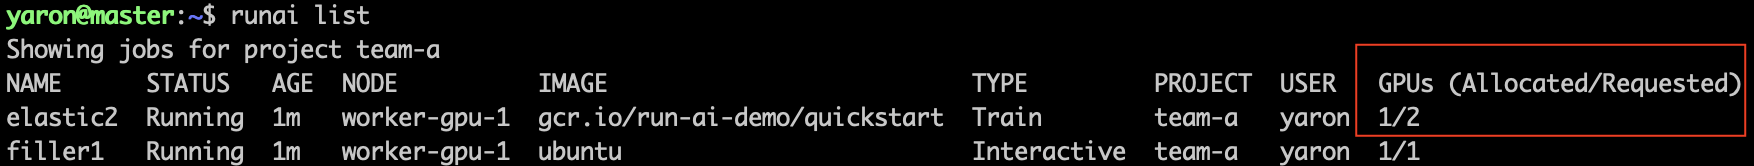
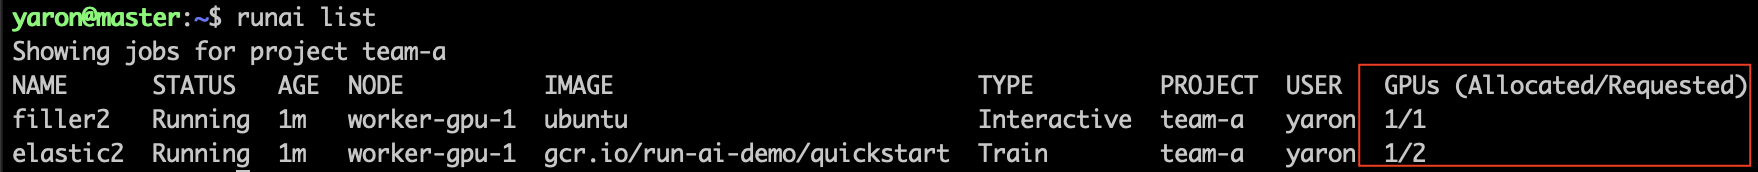
elastic

diff --git a/docs/Researcher/Walkthroughs/walkthrough-elasticity.md b/docs/Researcher/Walkthroughs/walkthrough-elasticity.md
@@ -36,9 +36,10 @@ To complete this walk-through you must have:
 ### Expansion 
 
 *   At the command-line run:
-
-<pre><code>runai project set team-a
-runai submit elastic1 -i gcr.io/run-ai-demo/quickstart -g 1 <b>--elastic</b></code></pre>
+```
+runai project set team-a
+runai submit elastic1 -i gcr.io/run-ai-demo/quickstart -g 1 --elastic
+```
 
 * This would start an unattended training job for team-a. 
 * The job is based on a sample docker image ``gcr.io/run-ai-demo/quickstart``. We named the job ``elastic1``and have allocated 2 GPUs for the job
@@ -56,16 +57,31 @@ The result:
     * The Job has requested 1 GPU, but has been allocated with 2, as 2 are available right now.
     * The code needs to be ready to accept more GPUs than it requested, otherwise, the GPUs will not be utilized. The Run:AI Elasticity library helps with expanding the job effectively.
 
-Finally, delete the job:
+Add a filler class:
 
-    runai delete elastic1
+```
+runai submit filler1 -i ubuntu --command sleep --args infinity -g 1 --interactive
+runai list
+```
+
+The result: 
+
+![elasticity4.png](img/elasticity4.png)
+
+!!! Discussion
+    An interactive job (filler1) needs to be scheduled. The elastic job is now reduced to the originally requested single-GPU
+
+
+Finally, delete the jobs:
+
+    runai delete elastic1, filler1
 
 
 ### Shrinking
 
 *   At the command-line run:
 ```
-runai submit filler1 -i ubuntu --command sleep --args infinity -g 1 --interactive
+runai submit filler2 -i ubuntu --command sleep --args infinity -g 1 --interactive
 runai submit elastic2 -i gcr.io/run-ai-demo/quickstart -g 2 --elastic 
 ```
 *   This would start a filler job on 1 GPU and attempt to start another unattended job with 2 GPUs. 
@@ -85,9 +101,21 @@ The result:
     Since only a single GPU remains unallocated, under normal circumstances, the job should not start. However, the ``--elastic`` flag tells the system to allocate a single GPU instead.
 
 
+Delete the filler job and list the jobs again:
+
+    runai delete filler1
+    runai list
+
+The result:
+
+![elasticity3.png](img/elasticity3.png)
+
+!!! Discussion
+    With the filler job gone, the elastic job has more room to expand, which it does.
+
 Finally, delete the jobs:
 
-    runai delete elastic2, filler1
+    runai delete elastic2
 
 
 

diff --git a/docs/Researcher/Walkthroughs/Run-AI-Walkthroughs.md b/docs/Researcher/Walkthroughs/Run-AI-Walkthroughs.md
@@ -11,5 +11,7 @@ Follow a Walk-through for each using the links below
 *   [Interactive build sessions with externalized services](walkthrough-build-ports.md)
 *   [Using GPU Fractions](walkthrough-fractions.md)
 *   [Distributed Training](walkthrough-distributed-training.md)
+*   [Hyperparameter Optimization](walkthrough-hpo.md)
 *   [Over-Quota, Basic Fairness & Bin Packing](walkthrough-overquota.md)
 *   [Fairness](walkthrough-queue-fairness.md)
+*   [Elasticity](walkthrough-elasticity.md)
